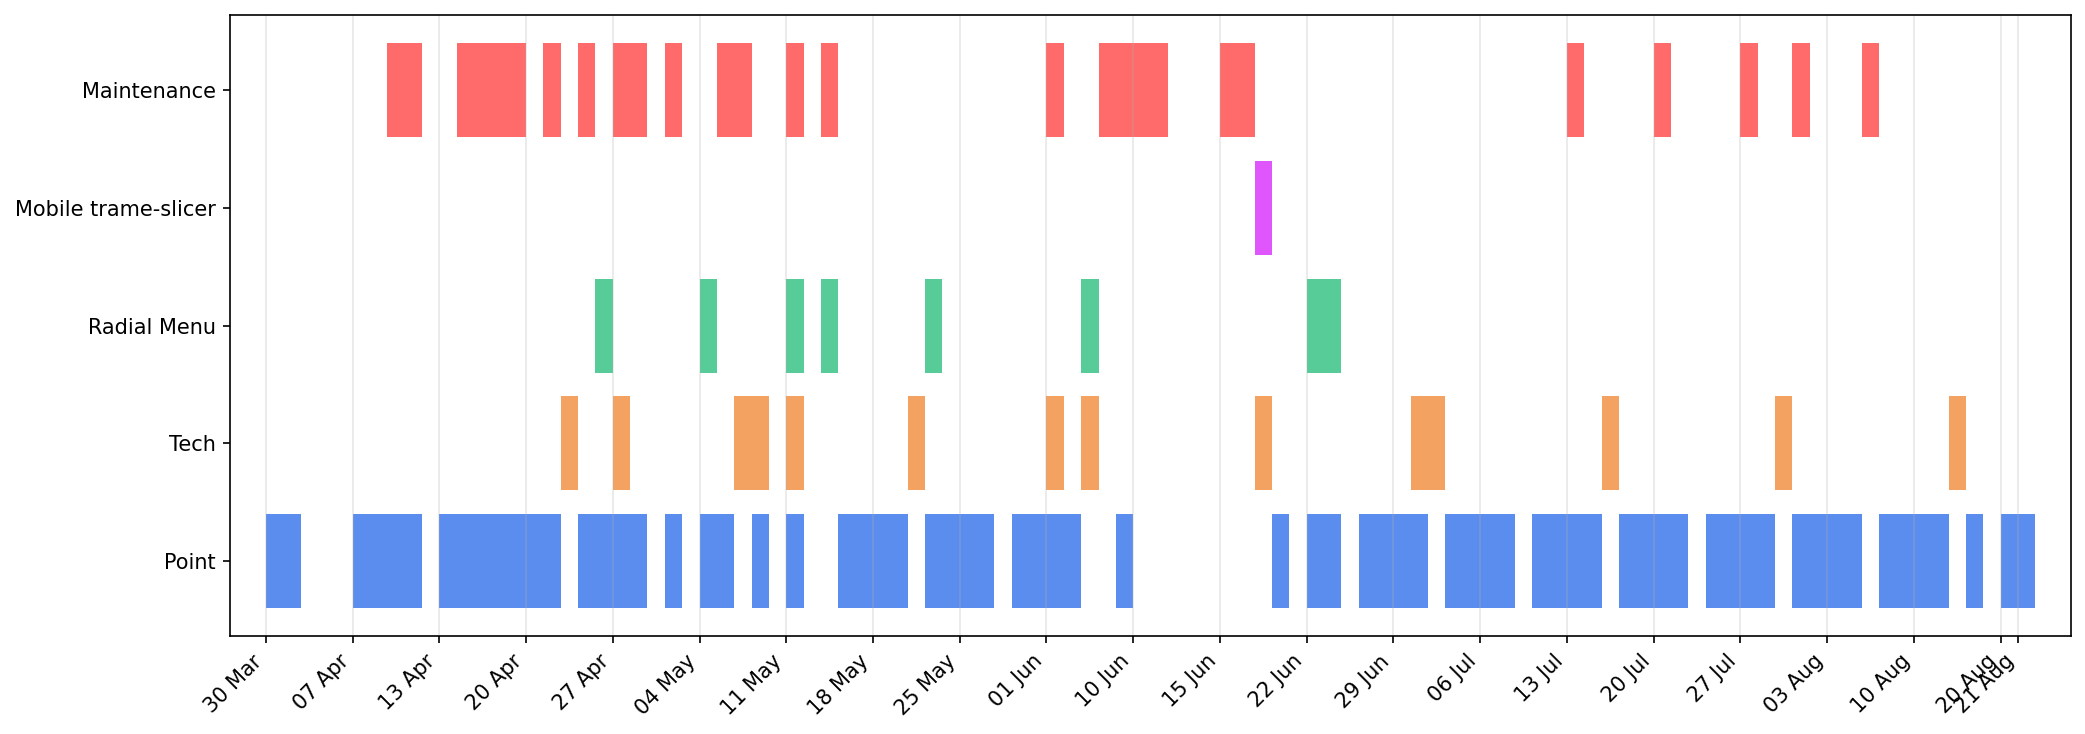
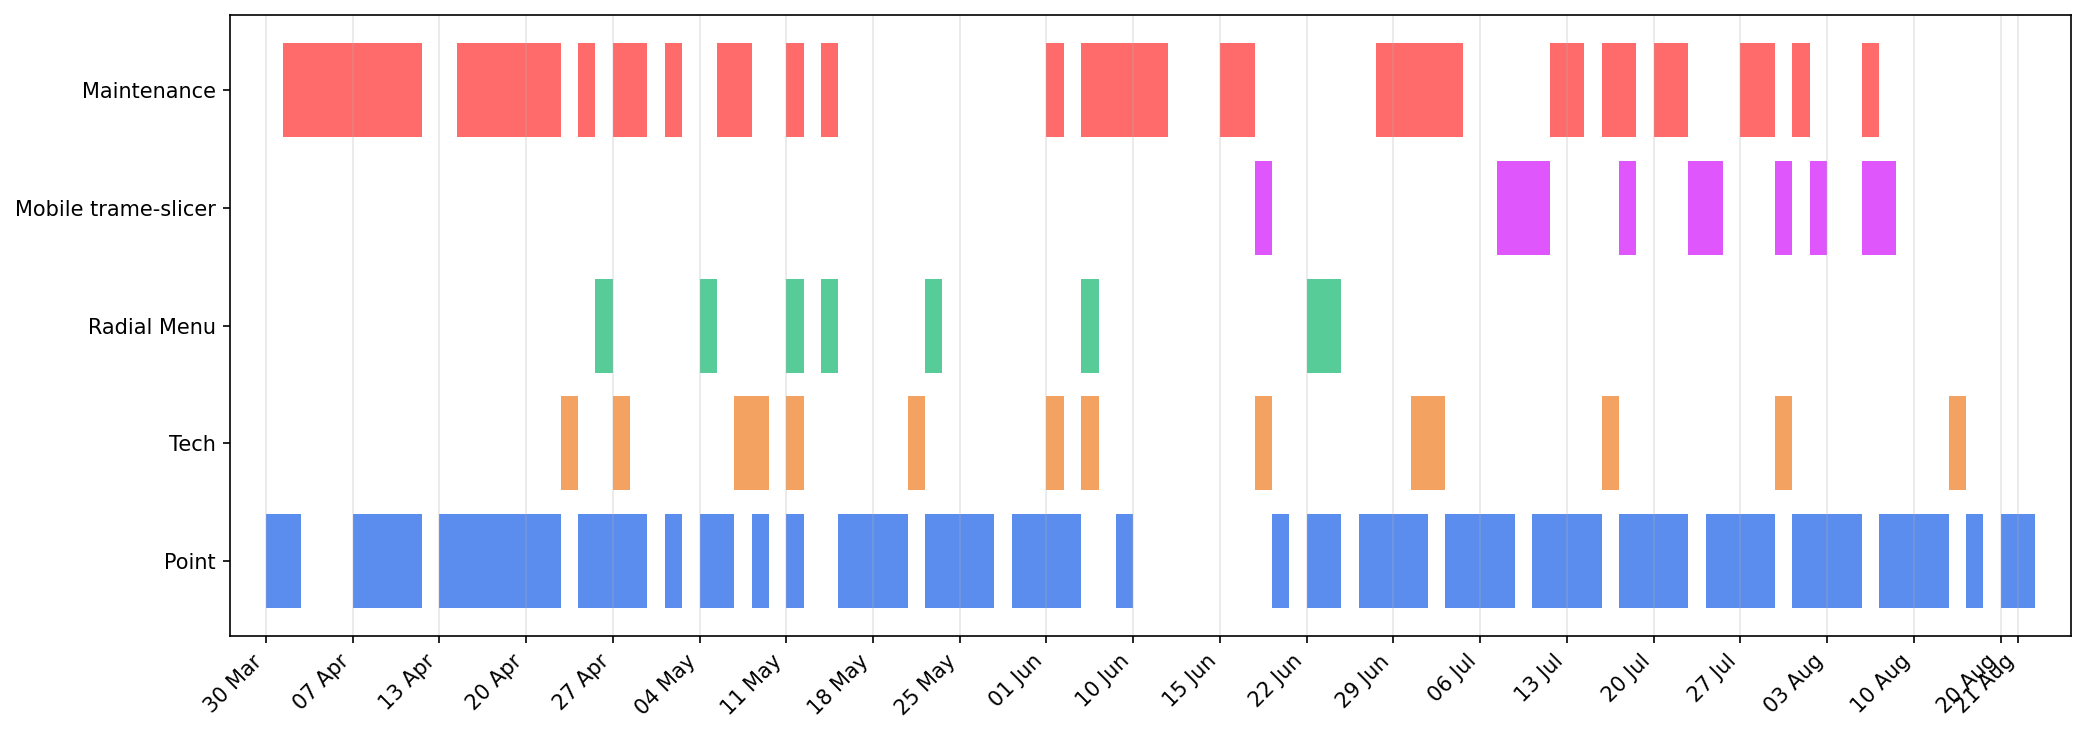
feat(timeline): plot contribution commits including forks and GitLab
- timeline rows (Maintenance, Radial Menu, Mobile trame-slicer) are fed
  by commit activity, including the user's forks hosting PR branches
- add GitLab commit fetching for gitlab.kitware.com repos
- robust PR URL parsing (GitLab MRs, repo URLs without /pull/)
- escape LaTeX special characters in contribution descriptions
- update contributions data

diff --git a/scripts/build_timeline.py b/scripts/build_timeline.py
@@ -12,17 +12,32 @@ EVENT_TYPES = [
     "Radial Menu",
     "Mobile trame-slicer",
 ]
-MAINTENANCE_REPOS = [
-    "Kitware/trame",
-    "Kitware/trame-tutorial",
-    "Kitware/trame-vtk",
-    "Kitware/trame-cookiecutter",
-    "UlysseDurand/github-retriever",
-]
-RADIAL_MENU_REPOS = [
-    "Kitware/trame-radial-menu",
-    "conda-forge/staged-recipes",
-]
+MAINTENANCE_REPOS = {
+    "Kitware/trame": "UlysseDurand",
+    "UlysseDurand/trame": "UlysseDurand",
+    "Kitware/trame-tutorial": "UlysseDurand",
+    "UlysseDurand/trame-tutorial": "UlysseDurand",
+    "Kitware/trame-vtk": "UlysseDurand",
+    "UlysseDurand/trame-vtk": "UlysseDurand",
+    "Kitware/trame-cookiecutter": "UlysseDurand",
+    "UlysseDurand/trame-cookiecutter": "UlysseDurand",
+    "UlysseDurand/github-retriever": "UlysseDurand",
+    "Kitware/trame-rca": "UlysseDurand",
+    "UlysseDurand/trame-rca": "UlysseDurand",
+    "conda-forge/staged-recipes": "UlysseDurand",
+    "UlysseDurand/staged-recipes": "UlysseDurand",
+    "conda-forge/trame-radial-menu-feedstock": "UlysseDurand",
+}
+RADIAL_MENU_REPOS = {
+    "Kitware/trame-radial-menu": "UlysseDurand",
+}
+MOBILE_TRAME_SLICER_REPOS = {
+    "gitlab.kitware.com/vtk/vtk": "ulysse.durand",
+    "Slicer/Slicer": "UlysseDurand",
+    "UlysseDurand/Slicer": "UlysseDurand",
+    "KitwareMedical/SlicerCore": "UlysseDurand",
+    "UlysseDurand/SlicerCore": "UlysseDurand",
+}
 EVENT_COLORS = ["#5b8dee", "#f4a261", "#57cc99", "#e056fd", "#ff6b6b"]
 
 
@@ -48,8 +63,8 @@ def to_date(value):
 
 def get_commit_days(repos):
     commits = []
-    for repo in repos:
-        commits.extend(get_user_commits(repo, "UlysseDurand"))
+    for repo, username in repos.items():
+        commits.extend(get_user_commits(repo, username))
     return [to_date(e["date"]) for e in commits]
 
 
@@ -60,6 +75,7 @@ def main():
     }
     events["Maintenance"] = get_commit_days(MAINTENANCE_REPOS)
     events["Radial Menu"] += get_commit_days(RADIAL_MENU_REPOS)
+    events["Mobile trame-slicer"] += get_commit_days(MOBILE_TRAME_SLICER_REPOS)
 
     # --- categorical x-axis: only Office days exist ---
     office_days = sorted(set(events.pop("Office")))

diff --git a/scripts/data_sources/github.py b/scripts/data_sources/github.py
@@ -1,8 +1,21 @@
 import json
 import subprocess
+import urllib.error
+import urllib.parse
+import urllib.request
+
+GITLAB_HOST = "gitlab.kitware.com"
+GITLAB_API = f"https://{GITLAB_HOST}/api/v4"
+GITLAB_PER_PAGE = 100
 
 
 def get_user_commits(repo: str, username: str):
+    if repo.startswith(f"{GITLAB_HOST}/"):
+        return get_user_commits_glab(repo, username)
+    return get_user_commits_gh(repo, username)
+
+
+def get_user_commits_gh(repo: str, username: str):
     owner, name = repo.split("/")
 
     query = """
@@ -82,5 +95,42 @@ def get_user_commits(repo: str, username: str):
                         "branch": branch["name"],  # include branch it's on
                     }
                 )
+
+    return commits
+
+
+def get_user_commits_glab(repo: str, username: str):
+    project = repo.removeprefix(f"{GITLAB_HOST}/")
+    base_url = (
+        f"{GITLAB_API}/projects/{urllib.parse.quote(project, safe='')}"
+        f"/repository/commits?author={urllib.parse.quote(username)}"
+        f"&per_page={GITLAB_PER_PAGE}"
+    )
+
+    commits = []
+    page = 1
+    while True:
+        try:
+            with urllib.request.urlopen(f"{base_url}&page={page}") as response:
+                data = json.load(response)
+        except urllib.error.HTTPError as exc:
+            raise RuntimeError(
+                f"Error fetching commits for {repo}: HTTP {exc.code} {exc.reason}"
+            ) from exc
+
+        for commit in data:
+            commits.append(
+                {
+                    "repo": repo,
+                    "sha": commit["id"],
+                    "date": commit["committed_date"],
+                    "message": commit["title"],
+                    "url": commit["web_url"],
+                    "branch": "",
+                }
+            )
+        if len(data) < GITLAB_PER_PAGE:
+            break
+        page += 1
 
     return commits

diff --git a/scripts/data_sources/contributions.py b/scripts/data_sources/contributions.py
@@ -4,6 +4,12 @@ from .io import load_yaml
 
 CONTRIBUTIONS_FILE = "../config/contributions.yml"
 
+_REPO_PATTERNS = (
+    re.compile(r"github\.com/([^/]+/[^/]+)"),
+    re.compile(r"gitlab\.kitware\.com/([^/]+/[^/]+)"),
+)
+_PR_NB = re.compile(r"/(?:pull|merge_requests)/(\d+)/?$")
+
 
 def get_prs():
     prs = load_yaml(CONTRIBUTIONS_FILE)["PR"]
@@ -14,12 +20,17 @@ def get_prs():
 
 
 def to_full_name(url):
-    return re.compile(r"github.com/([^/]*/[^/]*)/.*$").findall(url)[0]
+    for pattern in _REPO_PATTERNS:
+        match = pattern.search(url)
+        if match:
+            return match.group(1)
+    return ""
 
 
 def to_pr_nb(url):
-    return re.compile(r"github.com/.*/pull/*(.*)$").findall(url)[0]
+    match = _PR_NB.search(url)
+    return match.group(1) if match else ""
 
 
 def get_issues():
-    return load_yaml(CONTRIBUTIONS_FILE)["Issues"]
+    return load_yaml(CONTRIBUTIONS_FILE)["issues"]

diff --git a/scripts/render_templates.py b/scripts/render_templates.py
@@ -1,10 +1,17 @@
 #!/usr/bin/env python3
 
+import re
 import sys
 from pathlib import Path
 
 import data_sources
 from jinja2 import Environment, FileSystemLoader
+
+_TEX_SPECIAL = re.compile(r"([#&%$_{}])")
+
+
+def tex_escape(value):
+    return _TEX_SPECIAL.sub(r"\\\1", value)
 
 
 def main():
@@ -14,6 +21,7 @@ def main():
     for name, func in data_sources.__dict__.items():
         env.globals[name] = func
     env.globals["len"] = len
+    env.filters["tex_escape"] = tex_escape
 
     src_path = Path(src_dir)
     build_path = Path(build_dir)
